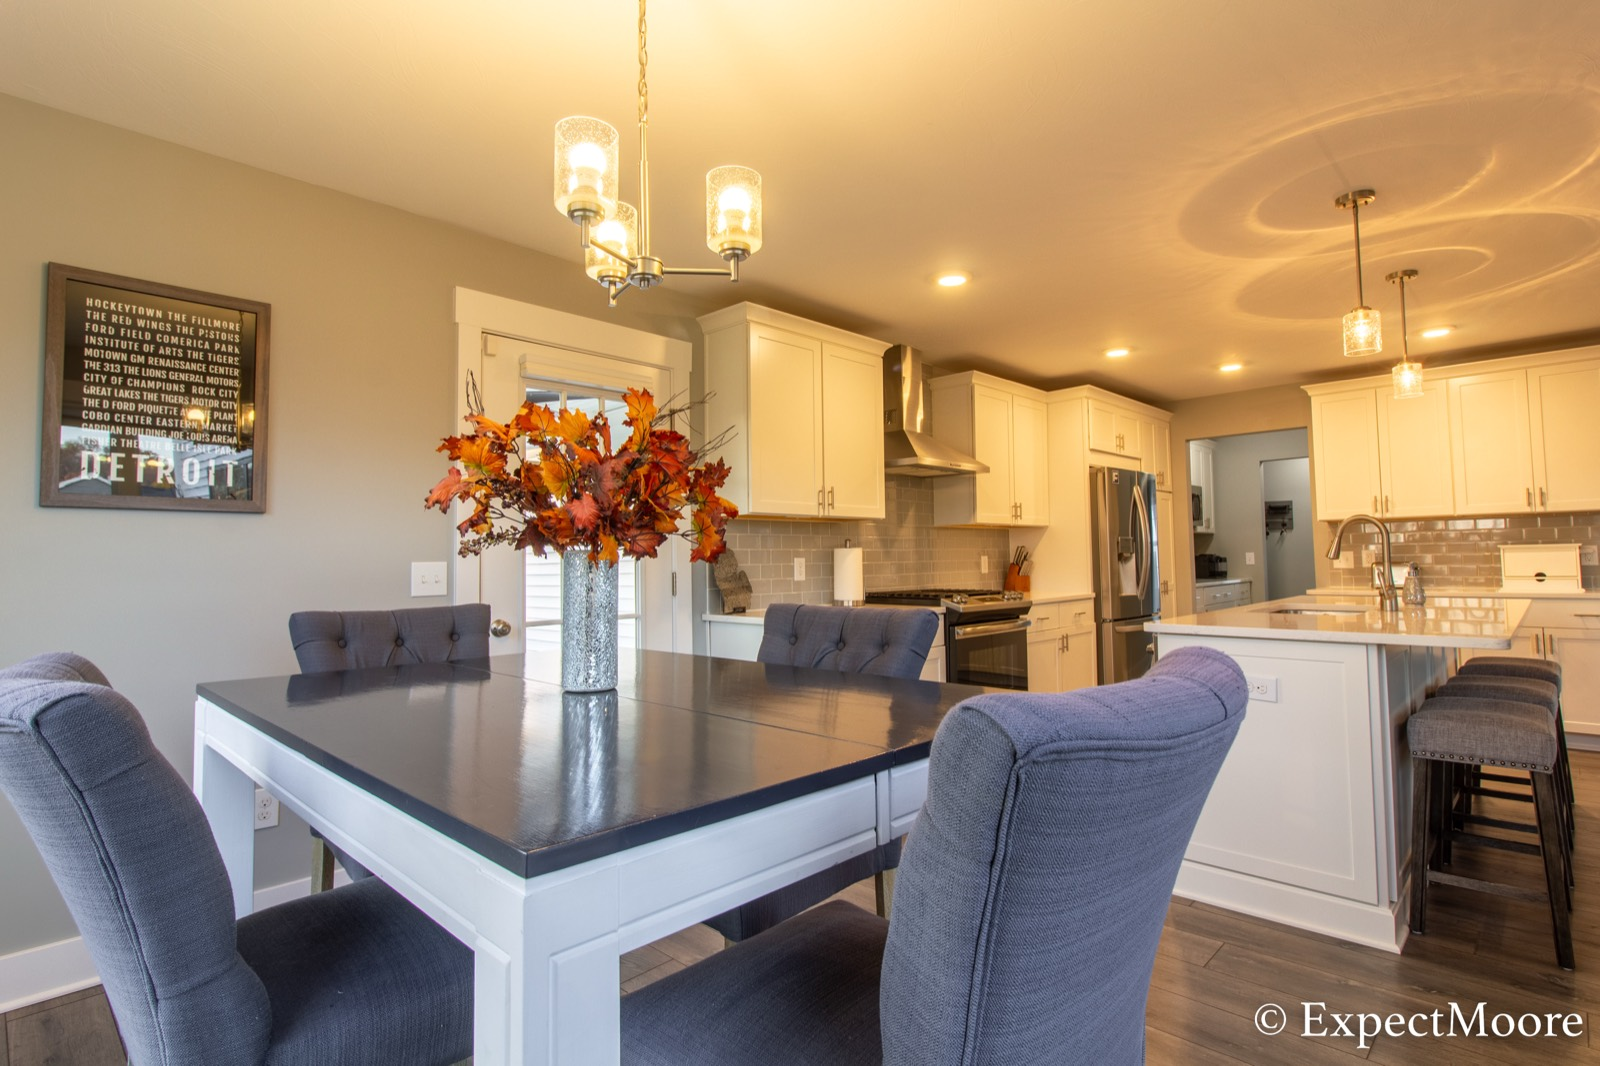
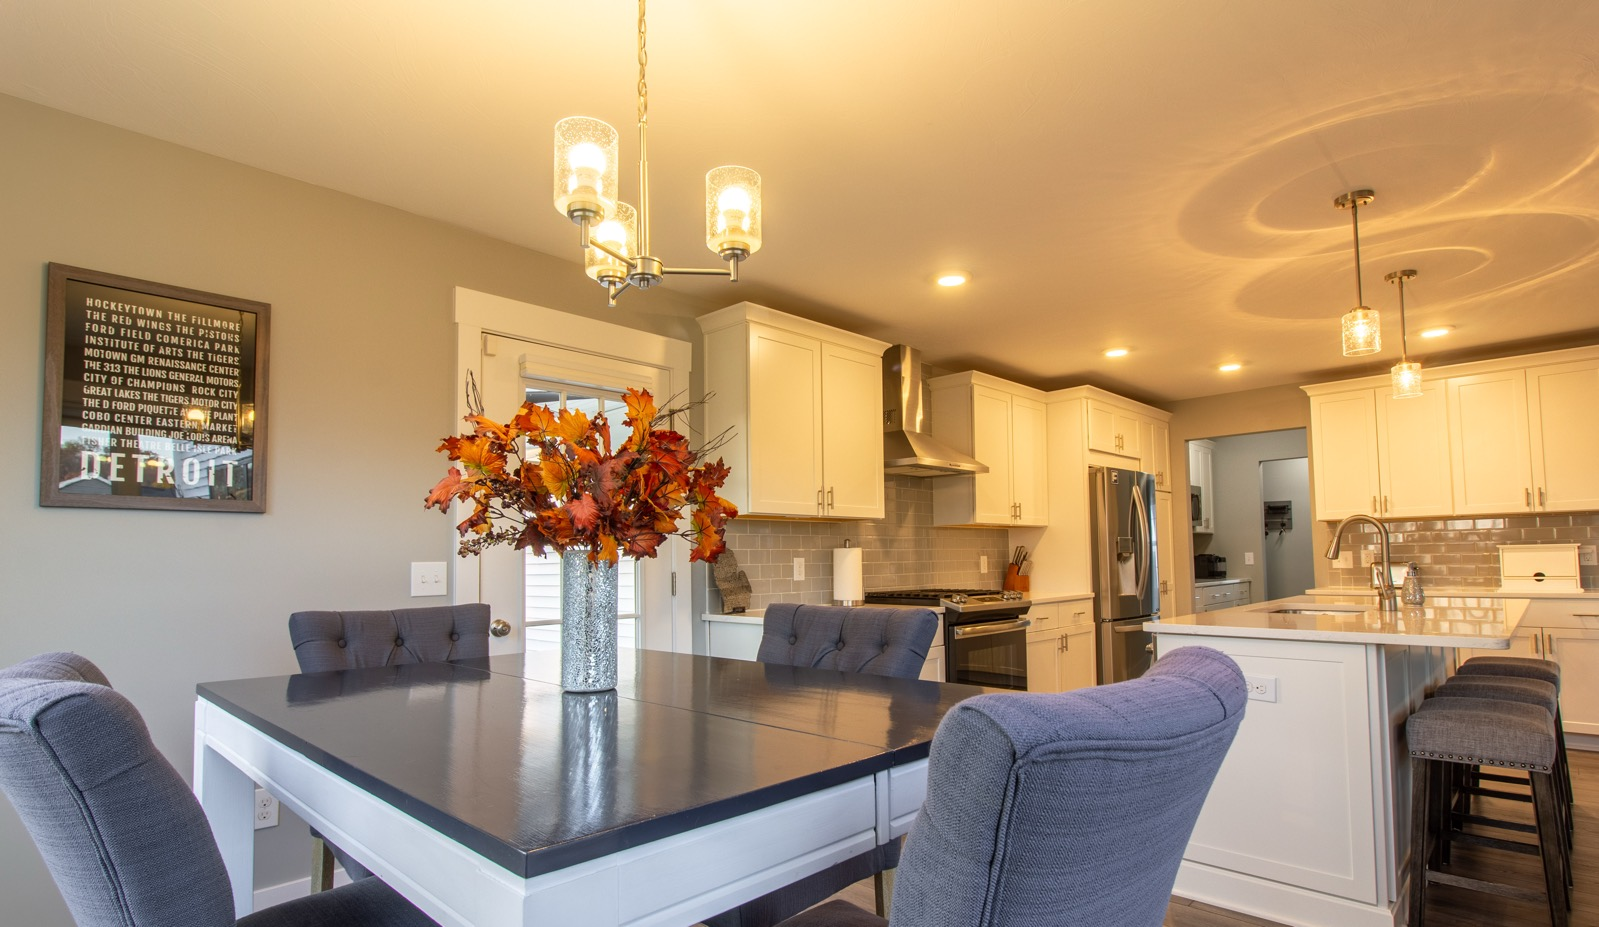
Remove watermarks, add Tramway shoot, new homepage hero
All watermarked photos re-exported from full-size originals with the
bottom watermark strip trimmed. Added 10 photos from 8079 Tramway Dr to
the portfolio, and the Tramway aerial front view is the new hero.

diff --git a/portfolio.html b/portfolio.html
@@ -66,6 +66,46 @@
           <img src="images/re-farmhouse-dining.jpg" alt="Dining table set beside an open white kitchen" loading="lazy">
           <figcaption><span>Real Estate</span>Modern farmhouse: dining</figcaption>
         </figure>
+        <figure class="wide" data-cat="drone">
+          <img src="images/drone-tramway-front.jpg" alt="Aerial view of a blue craftsman-style home with a three-car garage" loading="lazy">
+          <figcaption><span>Drone</span>New construction: aerial front view</figcaption>
+        </figure>
+        <figure data-cat="real-estate">
+          <img src="images/re-tramway-backyard.jpg" alt="Back of a blue home with a deck, paver patio, and fire pit" loading="lazy">
+          <figcaption><span>Real Estate</span>New construction: backyard</figcaption>
+        </figure>
+        <figure data-cat="real-estate">
+          <img src="images/re-tramway-great-room.jpg" alt="Open great room with a coffered ceiling and wide-plank floors" loading="lazy">
+          <figcaption><span>Real Estate</span>New construction: great room</figcaption>
+        </figure>
+        <figure data-cat="real-estate">
+          <img src="images/re-tramway-kitchen.jpg" alt="White kitchen with an island, pendant lights, and stainless appliances" loading="lazy">
+          <figcaption><span>Real Estate</span>New construction: kitchen</figcaption>
+        </figure>
+        <figure data-cat="real-estate">
+          <img src="images/re-tramway-island.jpg" alt="Kitchen island looking toward a living room with a fireplace" loading="lazy">
+          <figcaption><span>Real Estate</span>New construction: island and living</figcaption>
+        </figure>
+        <figure class="half" data-cat="real-estate">
+          <img src="images/re-tramway-living.jpg" alt="Living room with a stone fireplace, built-ins, and large windows" loading="lazy">
+          <figcaption><span>Real Estate</span>New construction: living room</figcaption>
+        </figure>
+        <figure class="half" data-cat="real-estate">
+          <img src="images/re-tramway-deck.jpg" alt="Wood deck overlooking open fields under a blue sky" loading="lazy">
+          <figcaption><span>Real Estate</span>New construction: deck</figcaption>
+        </figure>
+        <figure data-cat="real-estate">
+          <img src="images/re-tramway-front.jpg" alt="Front of a blue craftsman-style home with landscaped beds" loading="lazy">
+          <figcaption><span>Real Estate</span>New construction: curb appeal</figcaption>
+        </figure>
+        <figure data-cat="drone">
+          <img src="images/drone-tramway-overhead.jpg" alt="Overhead drone view of homes, lawns, and driveways" loading="lazy">
+          <figcaption><span>Drone</span>New construction: overhead</figcaption>
+        </figure>
+        <figure data-cat="real-estate">
+          <img src="images/re-tramway-shower.jpg" alt="Walk-in shower with marble-look tile and a pebble floor" loading="lazy">
+          <figcaption><span>Real Estate</span>New construction: primary bath</figcaption>
+        </figure>
         <figure class="half" data-cat="real-estate">
           <img src="images/re-lakefront-living.jpg" alt="Living room with a wall of windows overlooking the lake" loading="lazy">
           <figcaption><span>Real Estate</span>Lakefront home: living room</figcaption>

diff --git a/css/styles.css b/css/styles.css
@@ -136,7 +136,7 @@ p { margin: 0 0 1em; }
   position: relative; color: var(--white);
   min-height: min(88vh, 820px);
   display: flex; align-items: center;
-  background: var(--ink) url("../images/hero-aerial.jpg") center/cover no-repeat;
+  background: var(--ink) url("../images/hero-home.jpg") 15% center/cover no-repeat;
 }
 .hero::before {
   content: ""; position: absolute; inset: 0;
